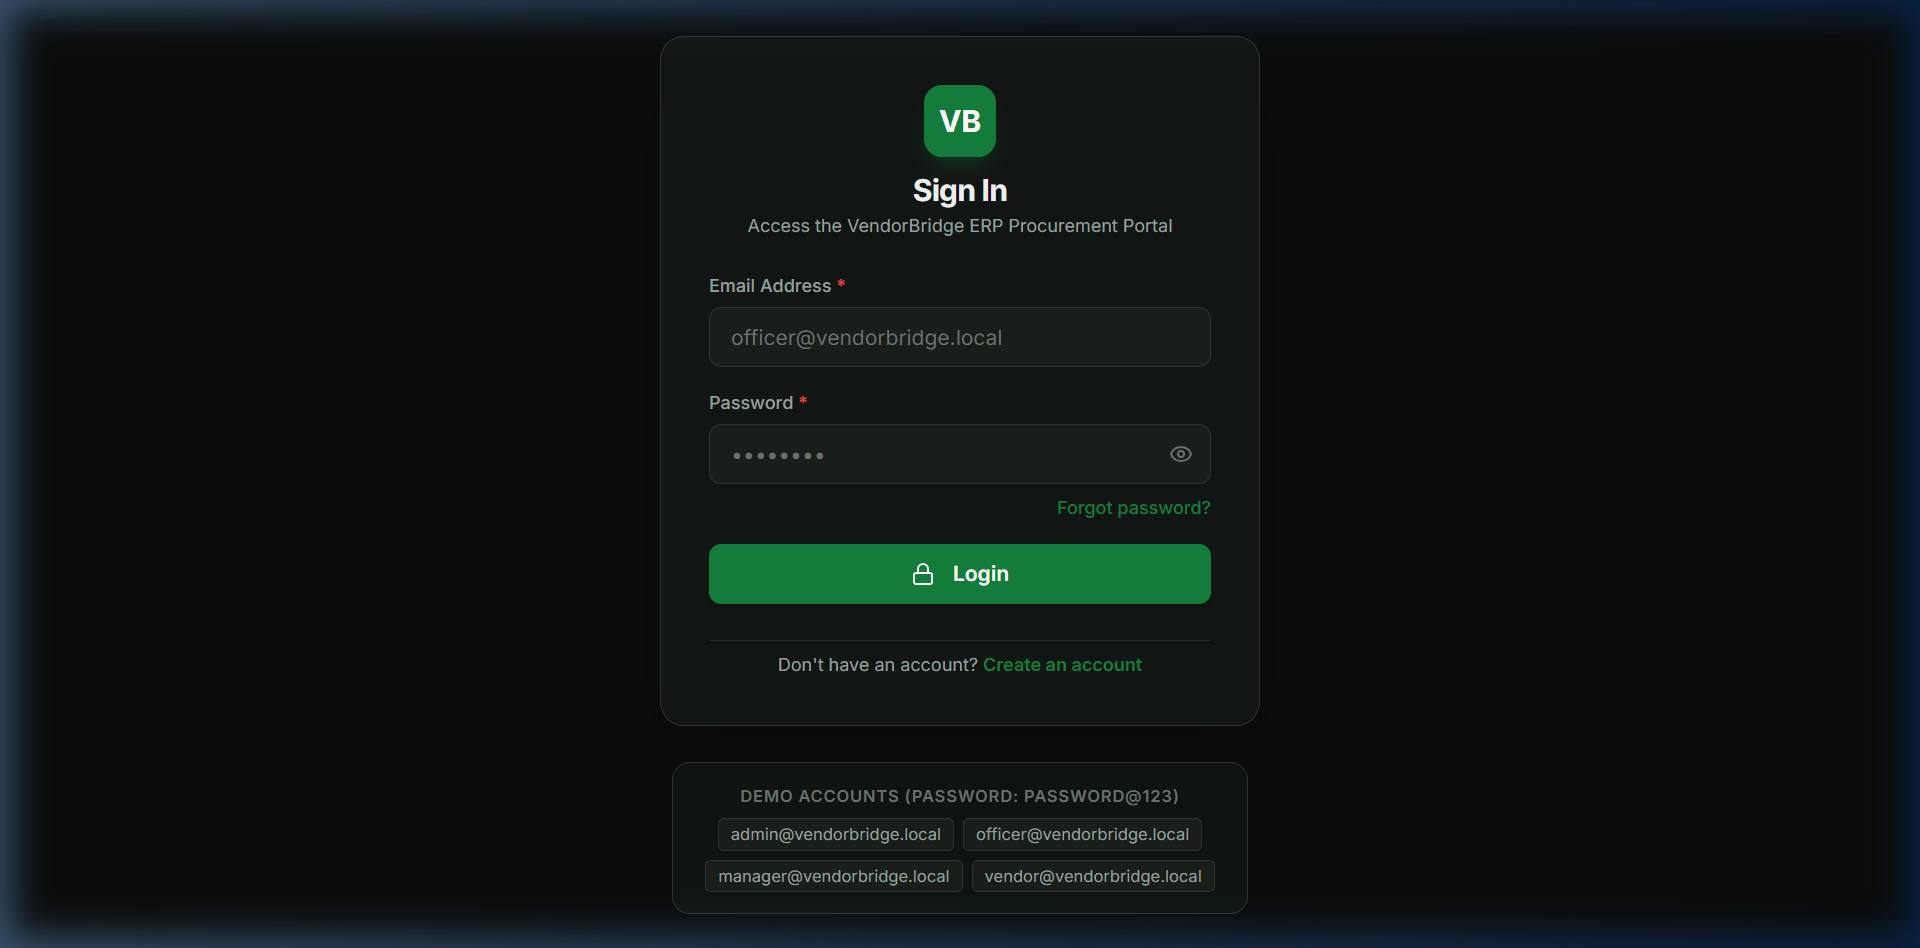
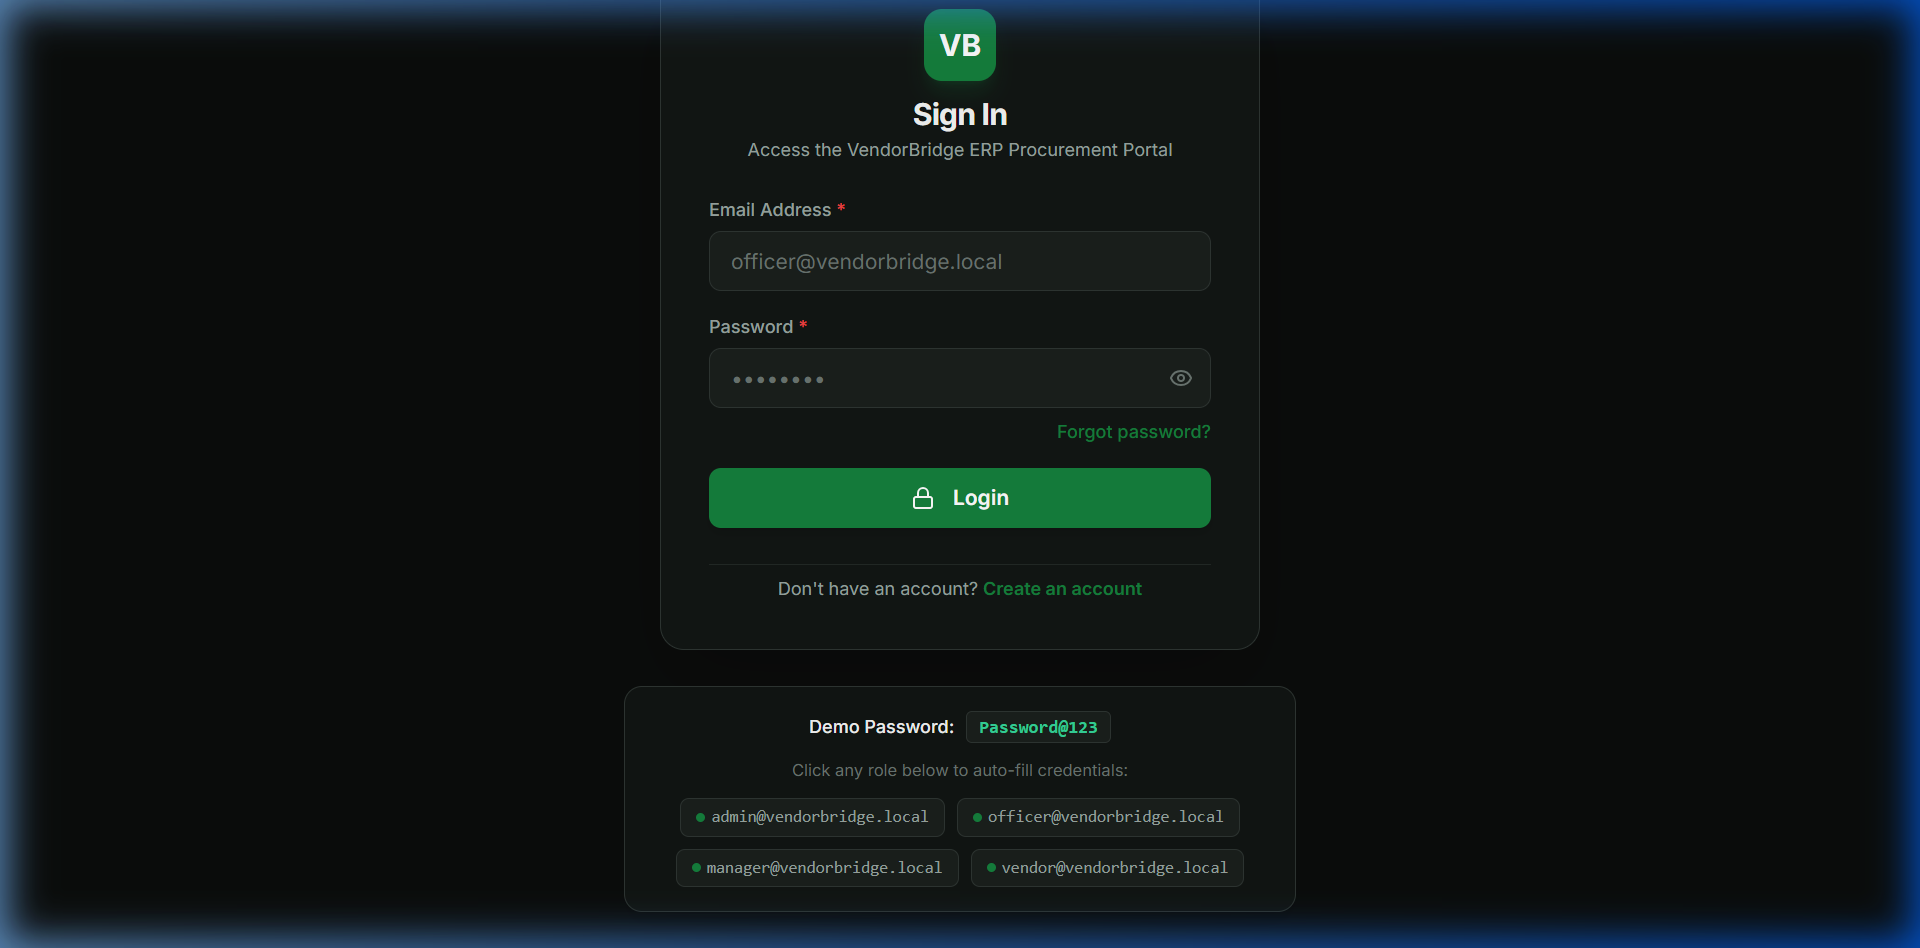
fix(client): format demo password casing and enable 1-click auto-fill

diff --git a/client/src/pages/auth/LoginPage.tsx b/client/src/pages/auth/LoginPage.tsx
@@ -35,6 +35,7 @@ export function LoginPage() {
   const {
     register,
     handleSubmit,
+    setValue,
     formState: { errors, isSubmitting },
   } = useForm<LoginFormData>({
     resolver: zodResolver(loginSchema),
@@ -43,6 +44,12 @@ export function LoginPage() {
       password: '',
     },
   });
+
+  const fillCredentials = (email: string) => {
+    setValue('email', email, { shouldValidate: true });
+    setValue('password', 'Password@123', { shouldValidate: true });
+    setServerError(null);
+  };
 
   const onSubmit = async (data: LoginFormData) => {
     try {
@@ -138,23 +145,34 @@ export function LoginPage() {
       </div>
 
       {/* Quick Demo Credentials Assistant (Dev helper) */}
-      <div className="mt-6 p-3.5 rounded-xl bg-surface/80 border border-border-default max-w-sm w-full text-center space-y-1.5">
-        <span className="text-[11px] font-semibold uppercase tracking-wider text-muted block">
-          Demo Accounts (Password: Password@123)
-        </span>
-        <div className="flex flex-wrap items-center justify-center gap-1.5 text-[11px]">
-          <span className="px-2 py-0.5 rounded bg-surface-2 text-secondary border border-border-default">
-            admin@vendorbridge.local
-          </span>
-          <span className="px-2 py-0.5 rounded bg-surface-2 text-secondary border border-border-default">
-            officer@vendorbridge.local
-          </span>
-          <span className="px-2 py-0.5 rounded bg-surface-2 text-secondary border border-border-default">
-            manager@vendorbridge.local
-          </span>
-          <span className="px-2 py-0.5 rounded bg-surface-2 text-secondary border border-border-default">
-            vendor@vendorbridge.local
-          </span>
+      <div className="mt-6 p-4 rounded-xl bg-surface/90 border border-border-default max-w-md w-full text-center space-y-2.5 shadow-lg">
+        <div className="flex items-center justify-center gap-2 text-xs text-secondary">
+          <span className="font-medium text-primary">Demo Password:</span>
+          <code className="text-emerald-400 font-mono font-bold bg-surface-2 px-2 py-0.5 rounded border border-border-default select-all text-xs tracking-normal">
+            Password@123
+          </code>
+        </div>
+        <p className="text-[11px] text-muted">
+          Click any role below to auto-fill credentials:
+        </p>
+        <div className="flex flex-wrap items-center justify-center gap-2 text-[11px]">
+          {[
+            { label: 'Admin', email: 'admin@vendorbridge.local' },
+            { label: 'Officer', email: 'officer@vendorbridge.local' },
+            { label: 'Manager', email: 'manager@vendorbridge.local' },
+            { label: 'Vendor', email: 'vendor@vendorbridge.local' },
+          ].map((acc) => (
+            <button
+              key={acc.email}
+              type="button"
+              onClick={() => fillCredentials(acc.email)}
+              className="px-2.5 py-1 rounded-md bg-surface-2 hover:bg-surface-2/80 hover:border-brand/60 text-secondary hover:text-primary border border-border-default transition-all cursor-pointer font-mono text-[11px] flex items-center gap-1 active:scale-95"
+              title={`Click to auto-fill ${acc.label} credentials`}
+            >
+              <span className="w-1.5 h-1.5 rounded-full bg-brand inline-block"></span>
+              {acc.email}
+            </button>
+          ))}
         </div>
       </div>
     </div>
